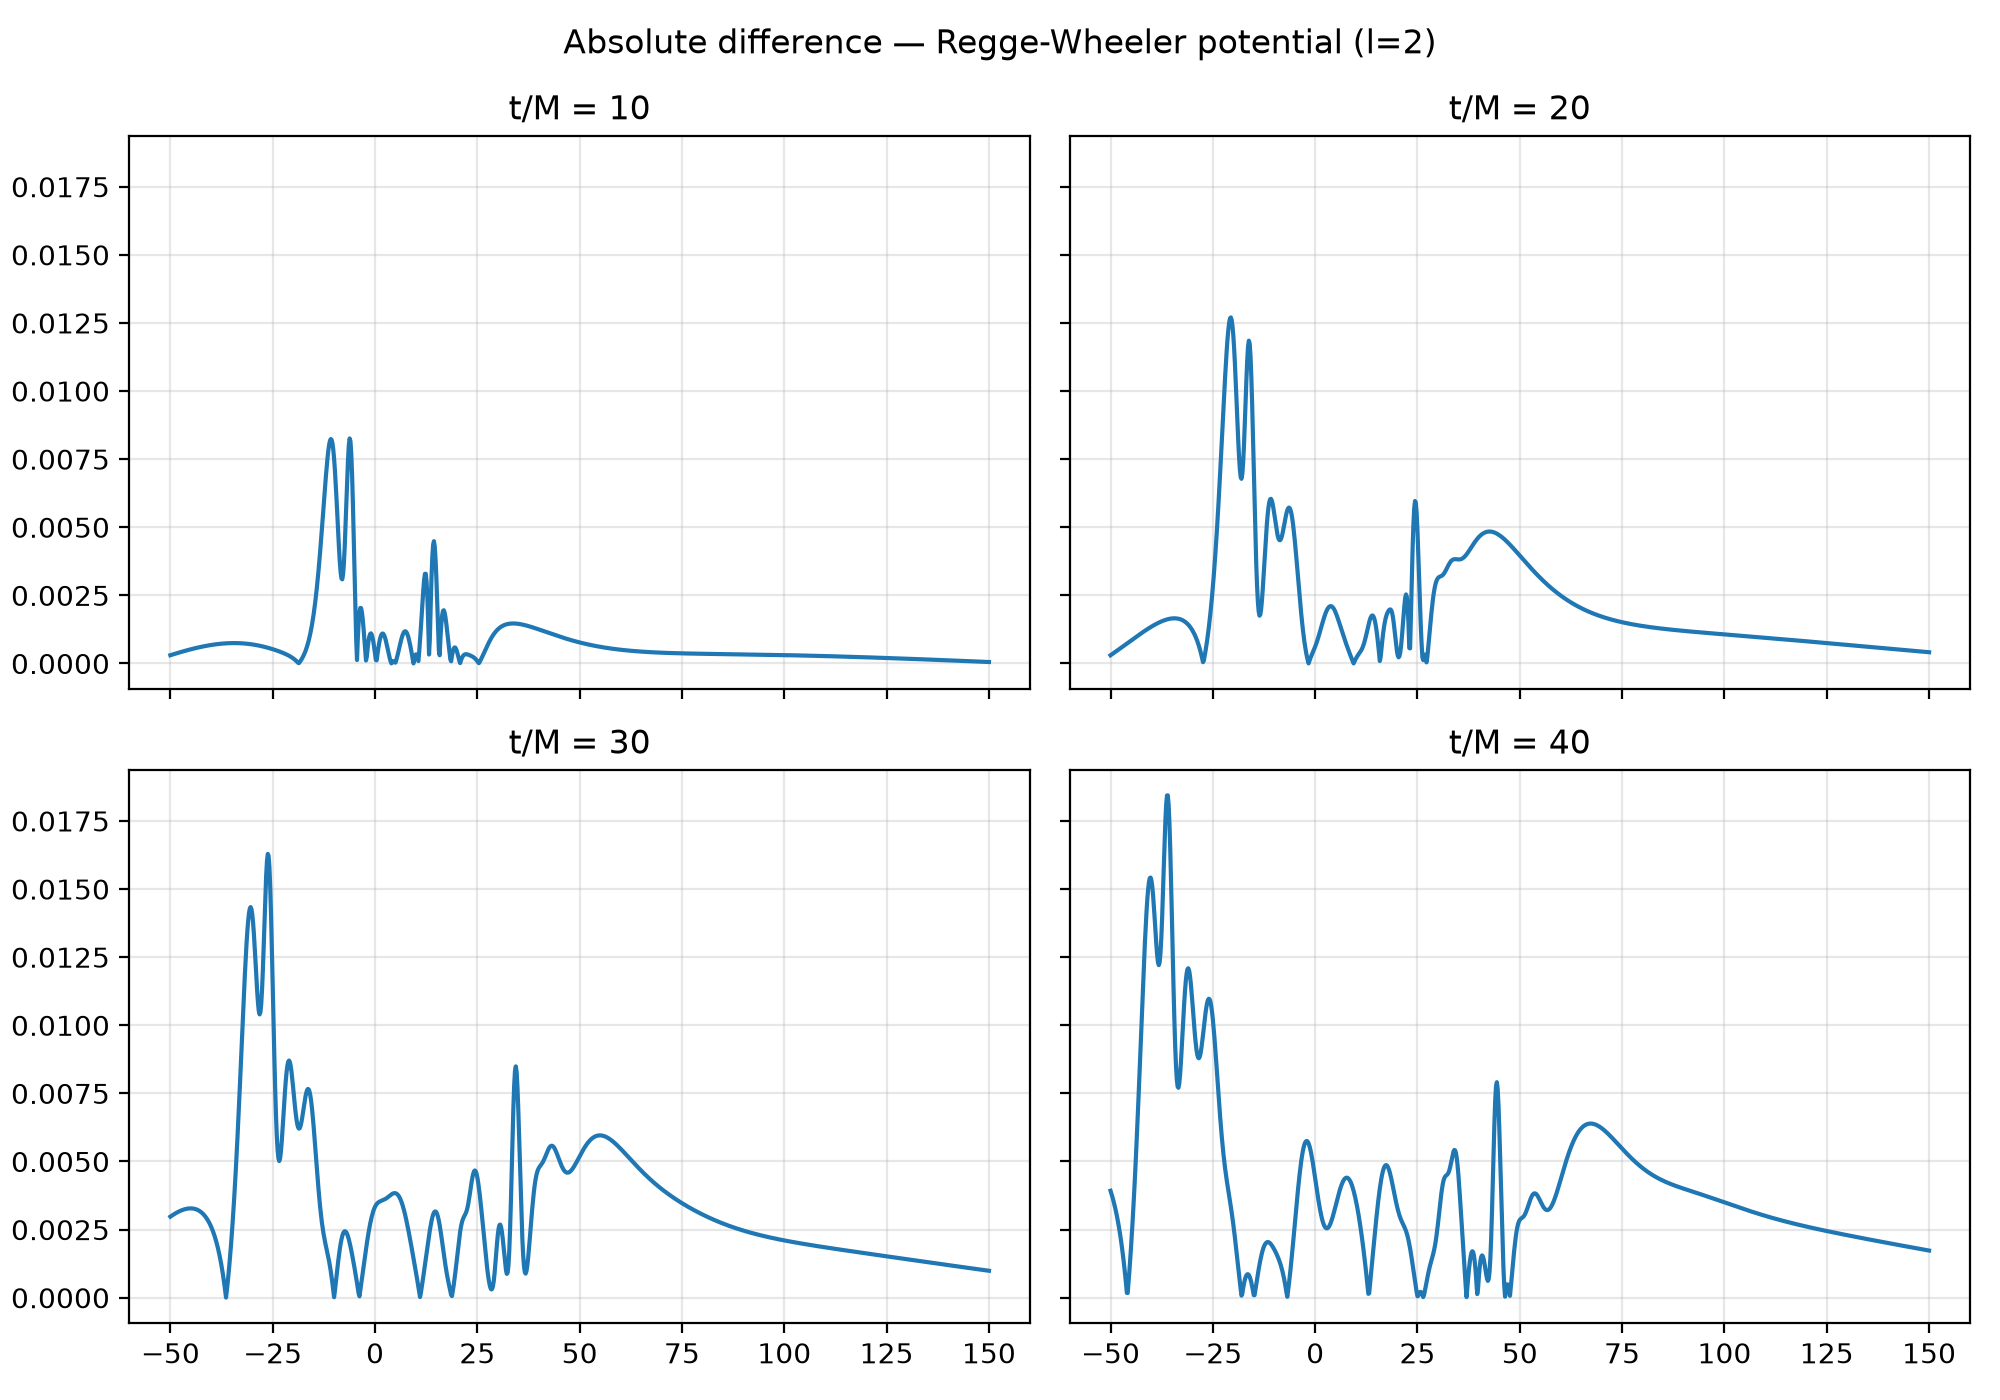
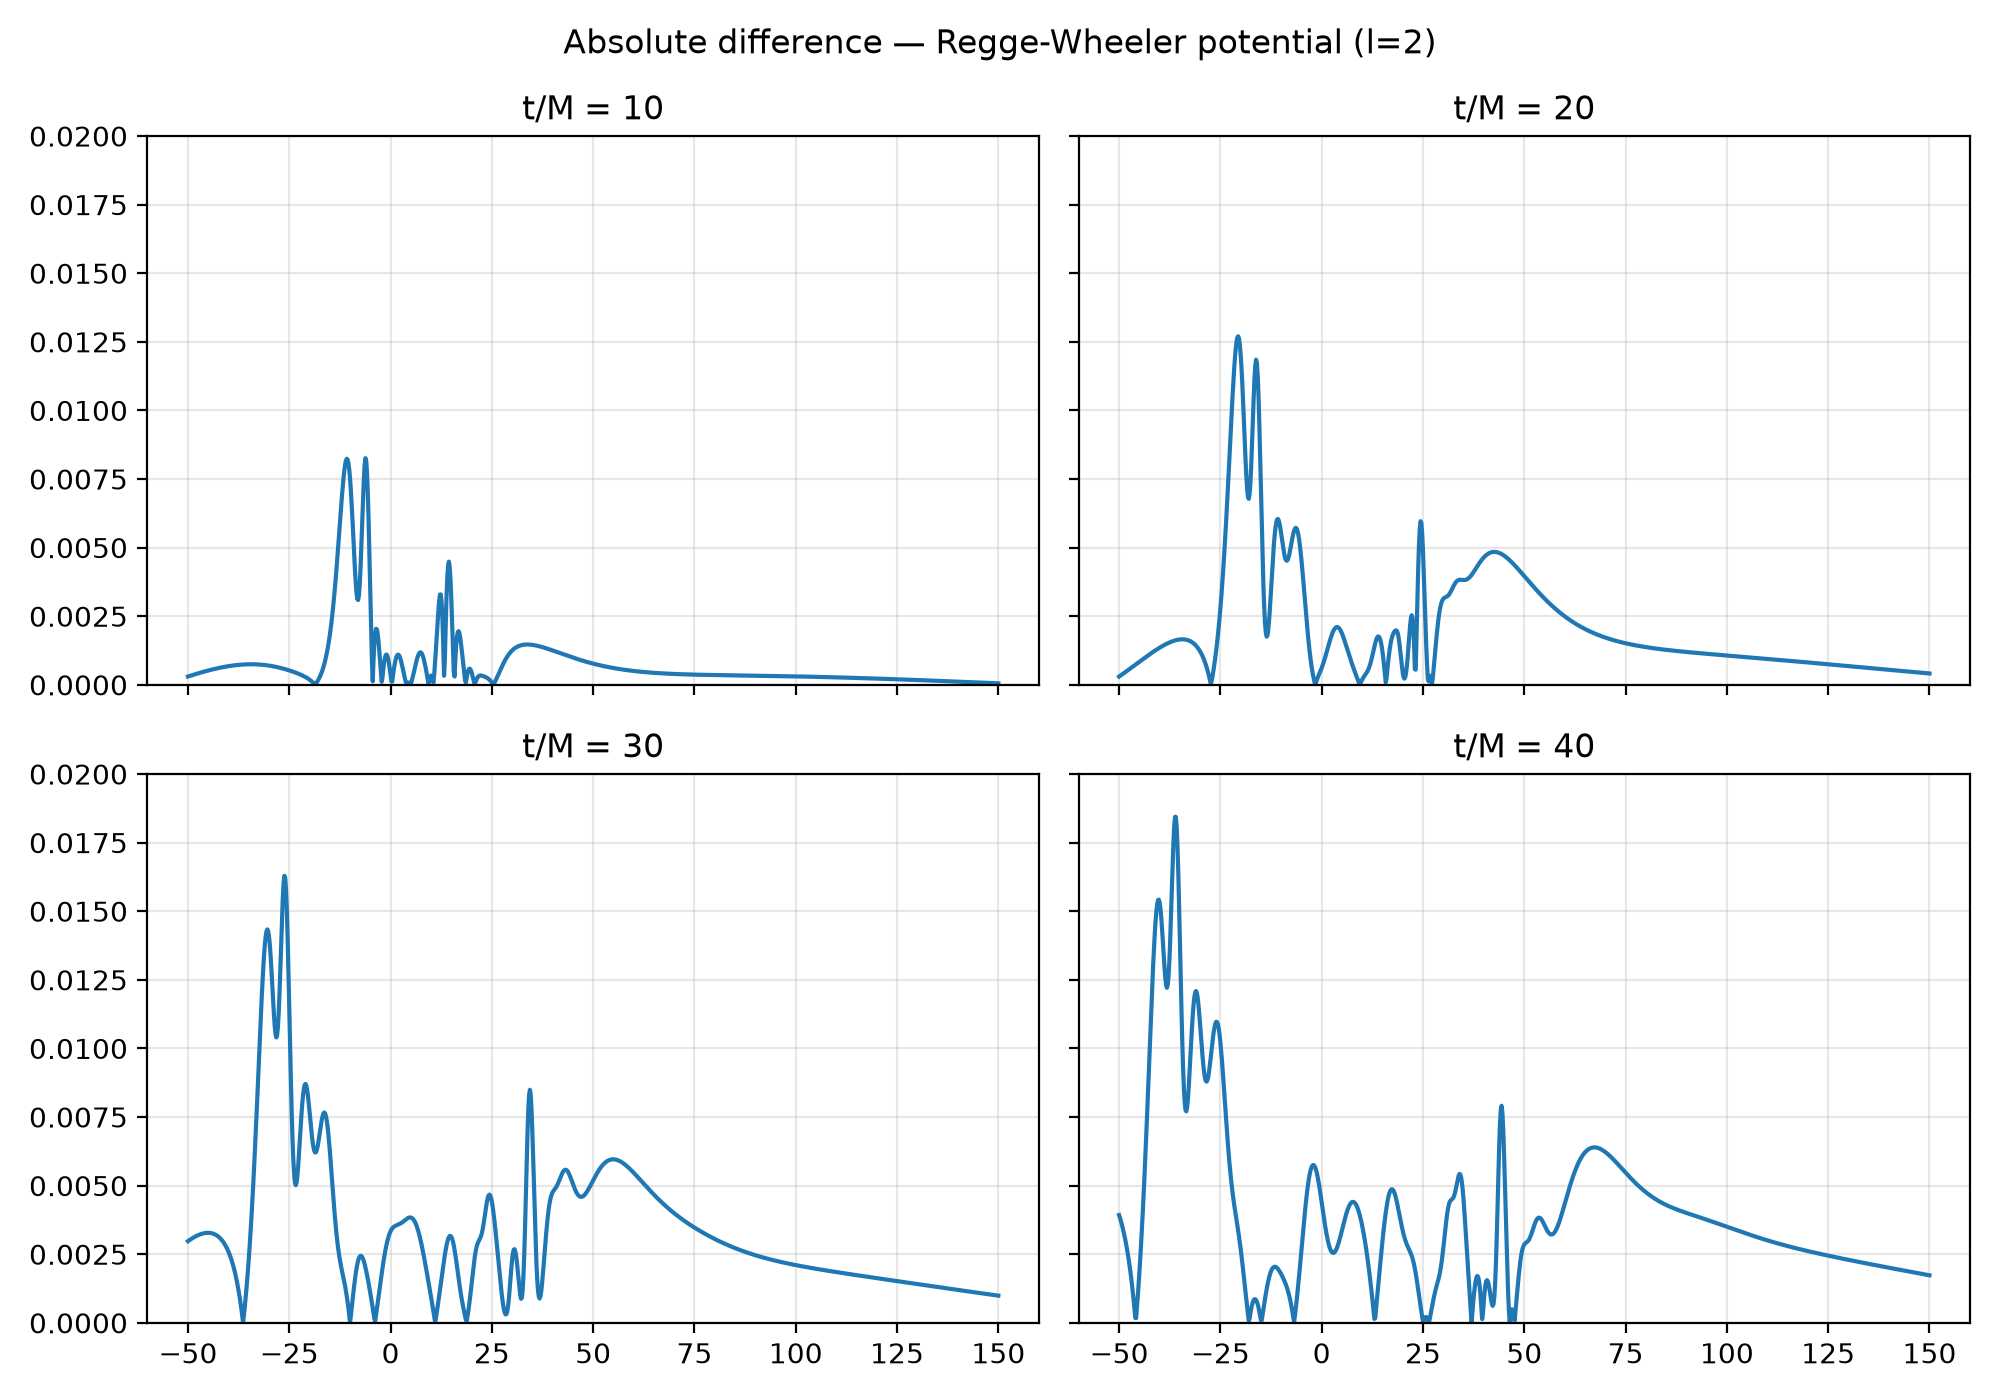
plotting: fix cross-model scale drift + add Zerilli reproduction/forward Colab notebooks
- src/plotting.py: fixed house-scale defaults (abs-diff ymax 0.02, snapshot ylim [-0.85,0.6], heatmap log colour [1e-6, 2.1e-2]) so snapshots/abs-diff/heatmap share one scale across models
- Regenerate RW reproduction figures at the standardised scale
- Add notebooks/repro_zerilli_colab.ipynb and forward_zerilli_colab.ipynb: end-to-end Drive-backed runs (FD+train+field eval RMSD/MAD/RL2+full M1-M5 QNM for PINN and FD+standardised plots)

diff --git a/scripts/_gen_repro_notebooks.py b/scripts/_gen_repro_notebooks.py
@@ -1,0 +1,213 @@
+"""Generate the two Zerilli Colab notebooks (faithful reproduction + enhanced
+forward) with identical end-to-end structure. Run once, then delete.
+
+    python scripts/_gen_repro_notebooks.py
+"""
+import json
+import os
+
+# ---------------------------------------------------------------- shared cells
+def md(text):
+    return {"cell_type": "markdown", "metadata": {}, "source": text}
+
+def code(text):
+    return {"cell_type": "code", "execution_count": None, "metadata": {},
+            "outputs": [], "source": text}
+
+MOUNT = """\
+# Mount Google Drive (persists across disconnects), then set the run config.
+from google.colab import drive
+drive.mount('/content/drive')
+import os
+# ==== the ONLY block that differs between the two notebooks ====
+NAME     = {name!r}
+CONFIG   = {config!r}
+DRIVE    = {drive!r}
+ESPRIT_K = 6          # ESPRIT model order for M3 on PINN fields
+# ===============================================================
+os.makedirs(DRIVE, exist_ok=True)
+print('run:', NAME, '| config:', CONFIG, '| drive:', DRIVE)
+!ls -lh {{DRIVE}} 2>/dev/null || echo '(empty - first run)'"""
+
+SANITY = """\
+# Sanity: which accelerator did Colab give us?
+!nvidia-smi -L 2>/dev/null || echo 'no GPU (CPU-only; the run will be slow)'
+import torch
+print('torch', torch.__version__, '| CUDA:', torch.cuda.is_available())"""
+
+CLONE = """\
+# Clone the repo (with the standardised plotting code) and install DeepXDE.
+%cd /content
+!rm -rf QNM_Project_Fresh
+!git clone --depth 1 https://github.com/ScreaM835/QNM_Project_Fresh.git
+REPO = '/content/QNM_Project_Fresh'
+%cd {REPO}
+!pip -q install "deepxde==1.15.0" tqdm
+os.environ['DDE_BACKEND'] = 'pytorch'
+os.environ['PYTHONIOENCODING'] = 'utf-8'
+OUT       = f'{REPO}/outputs/pinn/{NAME}'
+DRIVE_OUT = f'{DRIVE}/{NAME}'
+print('repo ready | OUT =', OUT)"""
+
+RUN = """\
+# FD data + PINN train + field eval + standardised field figures.
+# Resumable: restores any prior run from Drive; skips training if already done.
+# NOTE: run_pinn.py often exits with code 1 at the very end -- that is a benign
+# DeepXDE/torch teardown artifact; the outputs are written normally.
+import os, shutil
+%cd {REPO}
+if os.path.isdir(DRIVE_OUT):
+    os.makedirs(OUT, exist_ok=True)
+    shutil.copytree(DRIVE_OUT, OUT, dirs_exist_ok=True)
+    print('[run] restored prior run dir from Drive')
+done = os.path.exists(f'{OUT}/{NAME}_pinn.npz') and os.path.exists(f'{OUT}/metrics.json')
+if done:
+    print('[run] completed run found on Drive -> skipping training')
+else:
+    resume = '--resume' if (os.path.isdir(f'{OUT}/checkpoints') and os.listdir(f'{OUT}/checkpoints')) else ''
+    print('[run] training (resume flag =', repr(resume), ')')
+    !DDE_BACKEND=pytorch PYTHONIOENCODING=utf-8 python scripts/run_pinn.py --config {CONFIG} {resume} --checkpoint-every 500
+# always (re)build the standardised field figures from the saved fields, so the
+# snapshot / abs-diff / heatmap scales match the Regge-Wheeler + hybrid figures
+!PYTHONIOENCODING=utf-8 python scripts/replot_repro_from_npz.py --run {NAME} --config {CONFIG}
+os.makedirs(DRIVE_OUT, exist_ok=True)
+shutil.copytree(OUT, DRIVE_OUT, dirs_exist_ok=True)
+print('[run] outputs + standardised figures saved -> Drive:', DRIVE_OUT)"""
+
+QNM = """\
+# Full M1-M5 QNM suite for BOTH the PINN field and the FD reference.
+# (The reproduction paper reports only M1/M2, but the whole suite is run so the
+#  extraction mechanism is identical to every other model.)
+import os, shutil, glob
+%cd {REPO}
+# extract_qnm --source fd reads outputs/fd/<name>_fd.npz
+os.makedirs('outputs/fd', exist_ok=True)
+shutil.copy(f'outputs/pinn/{NAME}/{NAME}_fd.npz', f'outputs/fd/{NAME}_fd.npz')
+!PYTHONIOENCODING=utf-8 python scripts/extract_qnm.py --config {CONFIG} --source pinn --esprit --esprit-K {ESPRIT_K} --two-mode --two-mode-2d
+!PYTHONIOENCODING=utf-8 python scripts/extract_qnm.py --config {CONFIG} --source fd   --esprit --esprit-K {ESPRIT_K} --two-mode --two-mode-2d
+DRIVE_Q = f'{DRIVE}/{NAME}/qnm'
+os.makedirs(DRIVE_Q, exist_ok=True)
+for f in glob.glob(f'{REPO}/outputs/qnm/{NAME}/*'):
+    shutil.copy(f, DRIVE_Q)
+print('[qnm] M1-M5 for PINN + FD saved -> Drive')"""
+
+CURVEFIT = """\
+# Ringdown curve-fitting overlay (log|Phi| with the M1/M2 damped-cosine fits),
+# in the shared FD-blue / PINN-orange convention.
+import os, shutil
+%cd {REPO}
+!PYTHONIOENCODING=utf-8 python scripts/plot_curve_fitting.py --config {CONFIG}
+for src in [f'outputs/pinn/{NAME}/curve_fitting.png', f'outputs/qnm/{NAME}/curve_fitting.png']:
+    if os.path.exists(src):
+        shutil.copy(src, f'{DRIVE_OUT}/')
+print('[plot] curve_fitting.png saved -> Drive')"""
+
+REPORT = """\
+# *** FINAL REPORT: field metrics + full M1-M5 QNM for PINN and FD ***
+import json, os
+OUTP = f'outputs/pinn/{NAME}'; QOUT = f'outputs/qnm/{NAME}'
+m = json.load(open(f'{OUTP}/metrics.json'))
+print('=' * 66)
+print('FINAL REPORT  --  ' + NAME)
+print('=' * 66)
+print('FIELD:  RMSD = {:.4e}   MAD = {:.4e}   RL2 = {:.4f}  ({:.2f}%)'.format(
+      m['RMSD'], m['MAD'], m['RL2'], m['RL2'] * 100))
+methods = [('M1', 'method1'), ('M2', 'method2'), ('M3', 'method3_esprit'),
+           ('M4', 'method4_two_mode'), ('M5', 'method5_2d_scan')]
+for src in ['pinn', 'fd']:
+    print('\\n' + src.upper() + ' QNM  (Mw = M*omega, tau = tau/M; errors vs Leaver 0.3737 / 11.241):')
+    print('  {:<4} {:>10} {:>9} {:>10} {:>9}'.format('meth', 'Mw', 'w_err%', 'tau', 'tau_err%'))
+    for lbl, fn in methods:
+        p = f'{QOUT}/{src}_{fn}.json'
+        if not os.path.exists(p):
+            continue
+        d = json.load(open(p))
+        print('  {:<4} {:>10.4f} {:>8.3f}% {:>10.4f} {:>8.3f}%'.format(
+              lbl, d.get('omega_dim', float('nan')), d.get('omega_pct_err', float('nan')),
+              d.get('tau_dim', float('nan')), d.get('tau_pct_err', float('nan'))))
+print('\\nStandardised figures in ' + OUTP + ':')
+print('  snapshots.png, abs_diff_snapshots.png, error_heatmap.png,')
+print('  loss.png, ringdown_overlay.png, curve_fitting.png')"""
+
+ZIP = """\
+# Zip the run (figures + metrics + QNM JSONs + fields) and download to the laptop.
+import os
+%cd {REPO}
+ZIP = f'/content/{NAME}_run.zip'
+!rm -f {ZIP}
+!cd {REPO} && zip -r {ZIP} outputs/pinn/{NAME} outputs/qnm/{NAME} -x '*checkpoints*'
+from google.colab import files
+files.download(ZIP)
+print('downloaded', ZIP)"""
+
+INTRO = """\
+# {title}
+
+{desc}
+
+**One session, end to end:** FD data -> PINN train -> field eval -> QNM (M1-M5)
+-> standardised plots, all saved to Google Drive (so a disconnect never loses
+work) and zipped for the laptop at the end. Re-running from the top restores any
+finished stage from Drive and skips the retrain.
+
+**No separate eval needed** -- the final report cell prints the field metrics
+(RMSD, MAD, RL2) and the full M1-M5 QNM table for both the PINN and the FD
+reference.
+
+**Plots use the shared house scale** so they line up with the Regge-Wheeler
+reproduction and the hybrid figures:
+- absolute-difference snapshots: y-axis fixed to `[0, 0.02]`
+- field snapshots: y-range fixed to `[-0.85, 0.6]`
+- pointwise-error heatmap: `magma_r` log colour fixed to `[1e-6, 2.1e-2]`
+
+Drive layout: `MyDrive/{drive_tail}/{name}/`
+"""
+
+
+def build(name, config, drive, title, desc):
+    cells = [
+        md(INTRO.format(title=title, desc=desc, drive_tail=drive.split('/')[-1], name=name)),
+        code(MOUNT.format(name=name, config=config, drive=drive)),
+        code(SANITY),
+        code(CLONE),
+        code(RUN),
+        code(QNM),
+        code(CURVEFIT),
+        code(REPORT),
+        code(ZIP),
+    ]
+    return {
+        "cells": cells,
+        "metadata": {
+            "kernelspec": {"display_name": "Python 3", "language": "python", "name": "python3"},
+            "language_info": {"name": "python"},
+            "accelerator": "GPU",
+            "colab": {"provenance": []},
+        },
+        "nbformat": 4,
+        "nbformat_minor": 5,
+    }
+
+
+NB = [
+    ("repro_zerilli_colab.ipynb", "zerilli_l2_paper",
+     "configs/zerilli_l2_paper.yaml", "/content/drive/MyDrive/qnm_repro_zerilli",
+     "Faithful reproduction (Zerilli) -- end-to-end Colab run",
+     "Reproduces the Patel et al. Zerilli baseline at their exact settings: "
+     "uniform collocation resampling, Adam 10k + L-BFGS 15k, no residual-greedy "
+     "sampling and no extra iterations. Expect ~1-2 h on a Colab GPU."),
+    ("forward_zerilli_colab.ipynb", "zerilli_l2_greedy_f03_lbfgs30k",
+     "configs/zerilli_l2_greedy_f03_lbfgs30k.yaml", "/content/drive/MyDrive/qnm_forward_zerilli",
+     "Enhanced forward PINN (Zerilli) -- end-to-end Colab run",
+     "The enhanced forward PINN on Zerilli: residual-greedy collocation sampling "
+     "plus a doubled (30k) L-BFGS budget on top of the reproduction settings. "
+     "Expect ~2-3 h on a Colab GPU."),
+]
+
+os.makedirs("notebooks", exist_ok=True)
+for fname, name, config, drive, title, desc in NB:
+    nb = build(name, config, drive, title, desc)
+    path = os.path.join("notebooks", fname)
+    with open(path, "w", encoding="utf-8") as f:
+        json.dump(nb, f, indent=1)
+    print("wrote", path, "(", len(nb["cells"]), "cells )")

diff --git a/src/plotting.py b/src/plotting.py
@@ -9,6 +9,18 @@ import matplotlib.pyplot as plt
 from .utils import ensure_dir
 
 
+# --- Standardised axis scales for cross-model comparison -------------------
+# Reference: the Regge--Wheeler reproduction (report Figs. 13-14). Fixing these
+# so every Schwarzschild model shares one scale lets the reader compare the
+# absolute-difference, snapshot and pointwise-error plots directly, instead of
+# each panel auto-scaling to its own data (which made the scales drift between
+# models). Callers may override per plot, but the defaults are the house scale.
+ABS_DIFF_YMAX = 0.02           # abs-difference snapshot y-axis top (RW max 1.84e-2)
+SNAPSHOT_YLIM = (-0.85, 0.6)   # field-snapshot y-range
+HEATMAP_VMIN = 1.0e-6          # pointwise-error log colour floor
+HEATMAP_VMAX = 2.1e-2          # pointwise-error log colour ceiling (RW max 2.09e-2)
+
+
 def plot_snapshots(
     x: np.ndarray,
     t: np.ndarray,
@@ -18,6 +30,7 @@ def plot_snapshots(
     outpath: str,
     title: str,
     model_label: str = "PINN",
+    ylim: Optional[Tuple[float, float]] = SNAPSHOT_YLIM,
 ) -> None:
     ensure_dir(os.path.dirname(outpath))
     fig, axes = plt.subplots(2, 2, figsize=(10, 7), sharex=True, sharey=True)
@@ -31,6 +44,8 @@ def plot_snapshots(
         ax.grid(True, alpha=0.3)
 
     axes[0].legend()
+    if ylim is not None:
+        axes[0].set_ylim(*ylim)
     fig.suptitle(title)
     fig.tight_layout()
     fig.savefig(outpath, dpi=200)
@@ -45,6 +60,7 @@ def plot_abs_diff_snapshots(
     times: List[float],
     outpath: str,
     title: str,
+    ymax: Optional[float] = ABS_DIFF_YMAX,
 ) -> None:
     ensure_dir(os.path.dirname(outpath))
     fig, axes = plt.subplots(2, 2, figsize=(10, 7), sharex=True, sharey=True)
@@ -56,6 +72,8 @@ def plot_abs_diff_snapshots(
         ax.set_title(f"t/M = {t[idx]:.0f}")
         ax.grid(True, alpha=0.3)
 
+    if ymax is not None:
+        axes[0].set_ylim(0.0, ymax)
     fig.suptitle(title)
     fig.tight_layout()
     fig.savefig(outpath, dpi=200)
@@ -201,6 +219,8 @@ def plot_error_heatmap(
     signed: bool = False,
     xlim: Optional[Tuple[float, float]] = None,
     model_label: str = "PINN",
+    vmin: Optional[float] = None,
+    vmax: Optional[float] = None,
 ) -> None:
     """
     2D colormap of |phi_FD - phi_model| (or signed difference) over the full
@@ -222,9 +242,8 @@ def plot_error_heatmap(
         cbar.set_label(rf"$\Phi_{{\mathrm{{FD}}}} - \Phi_{{\mathrm{{{model_label}}}}}$")
     else:
         from matplotlib.colors import LogNorm
-        pos = diff[np.isfinite(diff) & (diff > 0)]
-        vmin = max(float(pos.min()), 1e-6) if pos.size else 1e-6
-        vmax = float(diff.max()) if np.isfinite(diff).any() and diff.max() > vmin else vmin * 10
+        vmin = HEATMAP_VMIN if vmin is None else vmin
+        vmax = HEATMAP_VMAX if vmax is None else vmax
         im = ax.pcolormesh(
             x, t, np.clip(diff, vmin, None), shading="auto", cmap="magma_r",
             norm=LogNorm(vmin=vmin, vmax=vmax),